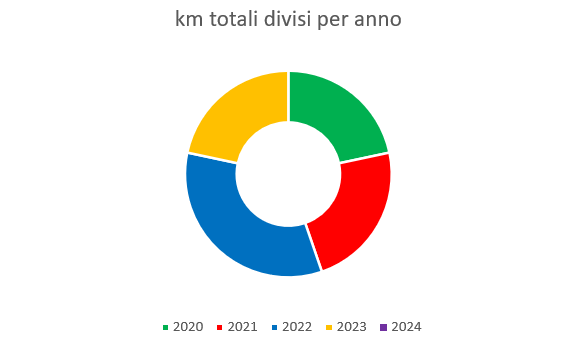
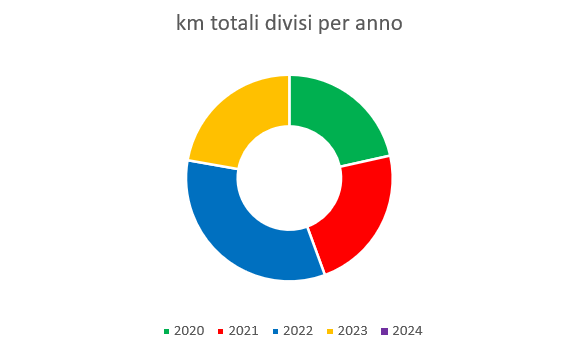
Add files via upload

diff --git a/Statistiche/Statistiche2023.html b/Statistiche/Statistiche2023.html
@@ -47,55 +47,55 @@
         <tr>
             <td>Gennaio</td>
             <td>127</td>
-            <td>5,17%</td>
+            <td>5,00%</td>
         </tr>
 
         <tr>
             <td>Febbraio</td>
             <td>148</td>
-            <td>6,03%</td>
+            <td>5,83%</td>
         </tr>
 
         <tr>
             <td>Marzo</td>
             <td>194</td>
-            <td>7,90%</td>
+            <td>7,64%</td>
         </tr>
 
         <tr>
             <td>Aprile</td>
             <td>103</td>
-            <td>4,20%</td>
+            <td>4,06%</td>
         </tr>
 
         <tr>
             <td>Maggio</td>
             <td>242</td>
-            <td>9,86%</td>
+            <td>9,54%</td>
         </tr>
 
         <tr>
             <td>Giugno</td>
             <td>265</td>
-            <td>10,79%</td>
+            <td>10,44%</td>
         </tr>
 
         <tr>
             <td>Luglio</td>
             <td>422</td>
-            <td>17,19%</td>
+            <td>16,63%</td>
         </tr>
 
         <tr>
             <td>Agosto</td>
             <td>426</td>
-            <td>17,35%</td>
+            <td>16,78%</td>
         </tr>
 
         <tr>
             <td>Settembre</td>
-            <td>528</td>
-            <td>21,51%</td>
+            <td>611</td>
+            <td>24,07%</td>
         </tr>
 
     </table>
@@ -106,10 +106,10 @@
 
     <br>
     <div class="colore">
-        <p>totale km 2.455
+        <p>totale km 2.538
             <img src="../Icone/traguardo.png">
         </p>
-        <p>km medi percorsi 61,38 km </p>
+        <p>km medi percorsi 61,90</p>
     </div>
     <br>
 

diff --git a/Statistiche.html b/Statistiche.html
@@ -83,7 +83,7 @@
             </td>
 
             <td>
-                21,70%
+                21,50%
             </td>
 
         </tr>
@@ -99,7 +99,7 @@
             </td>
 
             <td>
-                23,10%
+                22,90%
             </td>
         </tr>
 
@@ -113,7 +113,7 @@
             </td>
 
             <td>
-                33,60%
+                33,40%
             </td>
 
         </tr>
@@ -124,11 +124,11 @@
             </td>
 
             <td>
-                2.455
+                2.538
             </td>
 
             <td>
-                21,70%
+                22,20%
             </td>
 
         </tr>
@@ -158,11 +158,11 @@
 
     <div class="colore">
         <p>
-            totale km fatti 11.333
+            totale km fatti 11.416
             <img src="Icone/traguardo.png">
         </p>
 
-        <p>km medi percorsi 69,10 km </p>
+        <p>km medi percorsi 69,19 </p>
 
     </div>
 

diff --git a/Estate/Estate2023.html b/Estate/Estate2023.html
@@ -266,6 +266,16 @@
             <td>km</td>
         </tr>
 
+        <tr>
+            <td>26 settembre</td>
+            <td>23</td>
+            <td><a
+                    href="https://www.komoot.com/it-it/tour/1324708995?ref=wtd&share_token=alSgLRhdPlXXZXmxVnJ00e47qv88KYMTmUfMdCTCDEtf6B2CyA">
+                    Cisterna + Ariis </a></td>
+            <td>83</td>
+            <td>km</td>
+        </tr>
+
 
     </table>
 
@@ -277,10 +287,10 @@
     <br>
 
     <div class="colore">
-        <p> totale km 1.438
+        <p> totale km 1.521
             <img src="../Icone/traguardo.png">
         </p>
-        <p>km medi percorsi 65,36
+        <p>km medi percorsi 66,13
         </p>
     </div>
 </body>

diff --git a/Giri.html b/Giri.html
@@ -242,11 +242,11 @@
     <br>
     <div class="colore">
         <p>
-            totale km fatti 11.333
+            totale km fatti 11.416
             <img src="Icone/traguardo.png">
         </p>
 
-        <p>km medi percorsi 69,10 km </p>
+        <p>km medi percorsi 69,19 </p>
 
     </div>
 

diff --git a/Statistiche/Statistiche2021.html b/Statistiche/Statistiche2021.html
@@ -127,7 +127,7 @@
         <p>totale km 2.614
             <img src="../Icone/traguardo.png">
         </p>
-        <p>km medi percorsi 65,35 km </p>
+        <p>km medi percorsi 65,35</p>
     </div>
 </body>
 

diff --git a/Statistiche/Statistiche2020.html b/Statistiche/Statistiche2020.html
@@ -97,7 +97,7 @@
         <p>totale km 2.456
             <img src="../Icone/traguardo.png">
         </p>
-        <p>km medi percorsi 76,75 km </p>
+        <p>km medi percorsi 76,75</p>
     </div>
 
 </body>

diff --git a/Statistiche/Statistiche2024.html b/Statistiche/Statistiche2024.html
@@ -61,7 +61,7 @@
         <p>totale km 0
             <img src="../Icone/traguardo.png">
         </p>
-        <p>km medi percorsi 0 km </p>
+        <p>km medi percorsi 0 </p>
     </div>
     <br>
 

diff --git a/Statistiche/Statistiche2022.html b/Statistiche/Statistiche2022.html
@@ -127,7 +127,7 @@
     <p>totale km 3.808
         <img src="../Icone/traguardo.png">
     </p>
-    <p>km medi percorsi 61,42 km </p>
+    <p>km medi percorsi 61,42 </p>
     </div>
 </body>
 

diff --git a/Estate.html b/Estate.html
@@ -104,7 +104,7 @@
                 </td>
     
                 <td>
-                    1.438
+                    1.521
                 </td>
             </tr>
 
